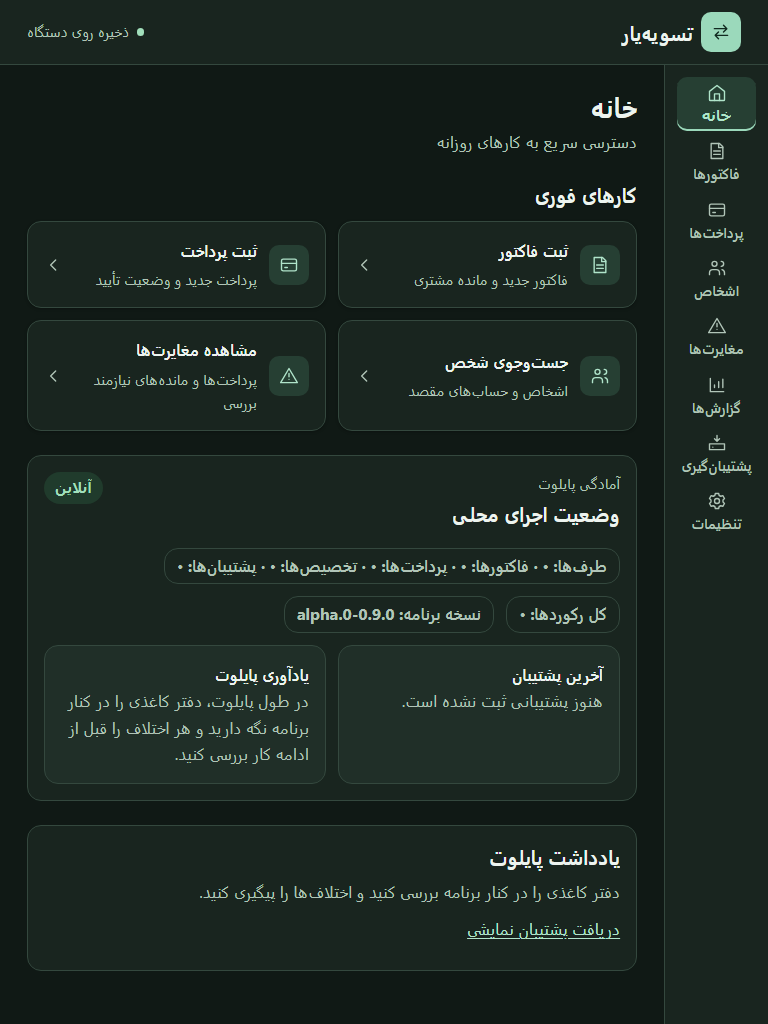
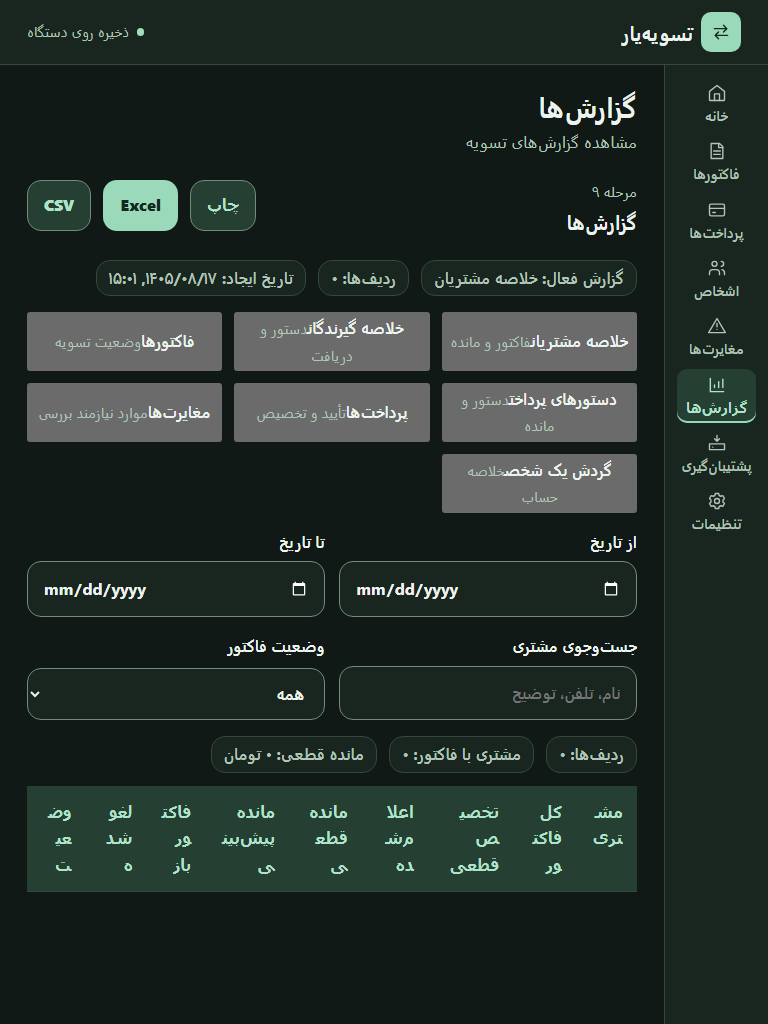
feat: optimize advanced mobile financial UX

diff --git a/src/features/reports/Reports.tsx b/src/features/reports/Reports.tsx
@@ -1,4 +1,5 @@
 import { useCallback, useEffect, useMemo, useRef, useState } from "react";
+import type { ReactNode } from "react";
 import type { DestinationAccount, Invoice, Payment, PaymentAllocation, PaymentInstruction, Party } from "../../domain";
 import { formatInvoiceAmount, formatInvoiceDate } from "../../domain/invoices";
 import { normalizePartyText, partyRoleLabels } from "../../domain/parties";
@@ -80,6 +81,36 @@ type ReportFilters = {
   reconciliationQuery: string;
   statementPartyId: string;
 };
+
+function openReportRecord(section: "parties" | "payments", recordId: string): void {
+  window.dispatchEvent(new CustomEvent("tasviehyar-open-record", { detail: { section, recordId } }));
+}
+
+function MobileReportCard({
+  title,
+  status,
+  emphasis,
+  children,
+  action
+}: {
+  title: string;
+  status?: string;
+  emphasis?: string;
+  children: ReactNode;
+  action?: { label: string; onClick: () => void };
+}) {
+  return (
+    <article className="mobile-report-card">
+      <div className="mobile-report-card-header">
+        <strong>{title}</strong>
+        {status ? <span className="status-pill status-active">{status}</span> : null}
+      </div>
+      {emphasis ? <p className="mobile-report-emphasis">{emphasis}</p> : null}
+      <div className="mobile-report-details">{children}</div>
+      {action ? <button type="button" className="tertiary-button" onClick={action.onClick}>{action.label}</button> : null}
+    </article>
+  );
+}
 
 const defaultFilters: ReportFilters = {
   dateFrom: "",
@@ -1045,6 +1076,22 @@ export function Reports({
             ))}
           </tbody>
         </table>
+        <div className="mobile-report-cards" aria-label="خلاصه مشتریان برای گوشی">
+          {customerSummaryRows.map((row) => (
+            <MobileReportCard
+              key={row.partyId}
+              title={row.customerName}
+              status={settlementLabelText(row.settlementState)}
+              emphasis={`مانده قطعی: ${formatInvoiceAmount(row.confirmedOutstanding)}`}
+              action={{ label: "مشاهده شخص", onClick: () => openReportRecord("parties", row.partyId) }}
+            >
+              <span>کل فاکتورها: {formatInvoiceAmount(row.totalInvoiced)}</span>
+              <span>تخصیص قطعی: {formatInvoiceAmount(row.confirmedAllocated)}</span>
+              <span>مانده پیشبینی: {formatInvoiceAmount(row.provisionalOutstanding)}</span>
+              <span>فاکتور باز: {row.openInvoiceCount.toLocaleString("fa-IR")}</span>
+            </MobileReportCard>
+          ))}
+        </div>
       </div>
     );
   }
@@ -1087,6 +1134,22 @@ export function Reports({
             ))}
           </tbody>
         </table>
+        <div className="mobile-report-cards" aria-label="پرداختها برای گوشی">
+          {paymentRows.map((row) => (
+            <MobileReportCard
+              key={row.paymentId}
+              title={`${row.payerName} ← ${row.recipientName}`}
+              status={row.verificationState}
+              emphasis={formatInvoiceAmount(row.amount)}
+              action={{ label: "مشاهده پرداخت", onClick: () => openReportRecord("payments", row.paymentId) }}
+            >
+              <span>تاریخ: {formatInvoiceDate(row.paymentDate)}</span>
+              <span>روش: {row.method}</span>
+              <span>تخصیص: {formatInvoiceAmount(row.allocatedAmount)}</span>
+              <span>بدون تخصیص: {formatInvoiceAmount(row.unallocatedAmount)}</span>
+            </MobileReportCard>
+          ))}
+        </div>
       </div>
     );
   }
@@ -1131,6 +1194,20 @@ export function Reports({
             ))}
           </tbody>
         </table>
+        <div className="mobile-report-cards" aria-label="مغایرتها برای گوشی">
+          {reconciliationRows.map((row) => (
+            <MobileReportCard
+              key={row.issueId}
+              title={row.mismatchType}
+              status={row.severity === "high" ? "بالا" : row.severity === "medium" ? "متوسط" : "کم"}
+              emphasis={row.explanation}
+            >
+              <span>شخص: {row.person}</span>
+              <span>مرجع: {row.reference}</span>
+              <span>تاریخ: {row.relevantDate ? formatInvoiceDate(row.relevantDate) : "—"}</span>
+            </MobileReportCard>
+          ))}
+        </div>
       </div>
     );
   }

diff --git a/src/App.tsx b/src/App.tsx
@@ -1,14 +1,15 @@
-import { useCallback, useEffect, useLayoutEffect, useRef, useState } from "react";
+import { lazy, Suspense, useCallback, useEffect, useLayoutEffect, useRef, useState } from "react";
 import { InvoiceManagement } from "./features/invoice-management/InvoiceManagement";
-import { BackupRestore } from "./features/backup-restore/BackupRestore";
 import { PilotReadinessPanel } from "./features/pilot-readiness/PilotReadinessPanel";
 import { PaymentManagement } from "./features/payment-management/PaymentManagement";
 import { PartyManagement } from "./features/party-management/PartyManagement";
-import { Reports } from "./features/reports/Reports";
-import { SettlementReview } from "./features/settlement-review/SettlementReview";
 import { destinations, isSection, type Section, sections } from "./shell/destinations";
 import { Icon, SectionLink } from "./shell/navigation";
 import { type Theme, themes, useTheme } from "./shell/theme";
+
+const BackupRestore = lazy(() => import("./features/backup-restore/BackupRestore").then(({ BackupRestore: component }) => ({ default: component })));
+const Reports = lazy(() => import("./features/reports/Reports").then(({ Reports: component }) => ({ default: component })));
+const SettlementReview = lazy(() => import("./features/settlement-review/SettlementReview").then(({ SettlementReview: component }) => ({ default: component })));
 
 const quickActions = [
   { section: "invoices", label: "ثبت فاکتور", description: "فاکتور جدید و مانده مشتری" },
@@ -29,13 +30,15 @@ export function App() {
   const { theme, selectTheme } = useTheme();
   const pageTitle = useRef<HTMLHeadingElement>(null);
   const previousSection = useRef(currentSection);
+  const scrollPositions = useRef<Partial<Record<Section, number>>>({});
 
   const navigate = useCallback((section: Section) => {
     if (readSection() !== section) {
+      scrollPositions.current[currentSection] = window.scrollY;
       window.history.pushState(null, "", `#/${section}`);
     }
     setCurrentSection(section);
-  }, []);
+  }, [currentSection]);
 
   useEffect(() => {
     function syncSection() {
@@ -60,7 +63,7 @@ export function App() {
   useLayoutEffect(() => {
     if (previousSection.current !== currentSection) {
       pageTitle.current?.focus({ preventScroll: true });
-      window.scrollTo(0, 0);
+      window.scrollTo({ top: scrollPositions.current[currentSection] ?? 0, behavior: "auto" });
       previousSection.current = currentSection;
     }
   }, [currentSection]);
@@ -152,9 +155,11 @@ export function App() {
         <div className={`shell-section ${currentSection === "invoices" ? "is-current" : ""}`}><InvoiceManagement onRequestPartyManagement={() => navigate("parties")} /></div>
         <div className={`shell-section ${currentSection === "payments" ? "is-current" : ""}`}><PaymentManagement /></div>
         <div className={`shell-section ${currentSection === "parties" ? "is-current" : ""}`}><PartyManagement /></div>
-        <div className={`shell-section ${currentSection === "reconciliation" ? "is-current" : ""}`}><SettlementReview /></div>
-        <div className={`shell-section ${currentSection === "reports" ? "is-current" : ""}`}><Reports /></div>
-        <div className={`shell-section ${currentSection === "backup" ? "is-current" : ""}`}><BackupRestore /></div>
+        <Suspense fallback={<div className="loading-state" role="status">در حال آمادهسازی بخش…</div>}>
+          {currentSection === "reconciliation" ? <SettlementReview /> : null}
+          {currentSection === "reports" ? <Reports /> : null}
+          {currentSection === "backup" ? <BackupRestore /> : null}
+        </Suspense>
 
         <div className="legacy-entry-compat" aria-label="دسترسیهای سازگار">
           {[

diff --git a/src/styles.css b/src/styles.css
@@ -560,6 +560,18 @@ h3 { font-size: 1.0625rem; }
   gap: var(--space-3);
 }
 
+.form-actions-sticky {
+  scroll-margin-block-end: calc(5rem + env(safe-area-inset-bottom));
+}
+
+.loading-state {
+  padding: var(--space-6);
+  border: 1px solid var(--border);
+  border-radius: var(--radius);
+  color: var(--muted);
+  background: var(--surface);
+}
+
 .primary-button,
 .secondary-button,
 .tertiary-button {
@@ -789,6 +801,41 @@ h3 { font-size: 1.0625rem; }
   color: var(--muted);
 }
 
+.mobile-report-cards {
+  display: none;
+}
+
+.mobile-report-card {
+  display: grid;
+  gap: var(--space-3);
+  padding: var(--space-4);
+  border: 1px solid var(--border);
+  border-radius: var(--radius);
+  background: var(--surface);
+  box-shadow: var(--shadow);
+}
+
+.mobile-report-card-header {
+  display: flex;
+  align-items: flex-start;
+  justify-content: space-between;
+  gap: var(--space-3);
+}
+
+.mobile-report-emphasis {
+  margin: 0;
+  color: var(--brand-deep);
+  font-size: 1.2rem;
+  font-weight: 800;
+}
+
+.mobile-report-details {
+  display: grid;
+  gap: var(--space-1);
+  color: var(--muted);
+  font-size: var(--text-small);
+}
+
 .backup-file-input {
   position: absolute;
   width: 1px;
@@ -847,6 +894,32 @@ h3 { font-size: 1.0625rem; }
 
   .shell-main {
     padding-block-end: calc(6rem + env(safe-area-inset-bottom));
+  }
+
+  .form-actions-sticky {
+    position: sticky;
+    z-index: 3;
+    inset-block-end: calc(0.5rem + env(safe-area-inset-bottom));
+    margin-inline: -0.5rem;
+    padding: 0.5rem;
+    border: 1px solid var(--border);
+    border-radius: var(--radius);
+    background: color-mix(in srgb, var(--surface) 94%, transparent);
+    box-shadow: 0 -0.5rem 1.5rem rgb(24 44 33 / 8%);
+    backdrop-filter: blur(12px);
+  }
+
+  .form-actions-sticky .primary-button {
+    flex: 1 1 100%;
+  }
+
+  .report-table-wrap .report-table {
+    display: none;
+  }
+
+  .report-table-wrap .mobile-report-cards {
+    display: grid;
+    gap: var(--space-3);
   }
 
   .shell-sidebar {

diff --git a/src/App.test.tsx b/src/App.test.tsx
@@ -49,7 +49,7 @@ describe("App shell", () => {
 
     expect(window.location.hash).toBe("#/backup");
     expect(menu.getByRole("heading", { name: "پشتیبانگیری", level: 1 })).toHaveFocus();
-    expect(menu.getByRole("heading", { name: "پشتیبانگیری و بازیابی" })).toBeVisible();
+    expect(await menu.findByRole("heading", { name: "پشتیبانگیری و بازیابی" })).toBeVisible();
     expect(navigation().getByRole("link", { name: "پشتیبانگیری" })).toHaveAttribute("aria-current", "page");
     expect(navigation().getByRole("link", { name: "بیشتر" })).toHaveAttribute("aria-current", "location");
     expect(screen.queryByRole("heading", { name: "کارهای فوری" })).not.toBeInTheDocument();

diff --git a/src/features/reports/Reports.test.tsx b/src/features/reports/Reports.test.tsx
@@ -135,6 +135,8 @@ describe("reports", () => {
     const previewStrip = screen.getByLabelText("پیشنمایش گزارش");
     expect(within(previewStrip).getByText(/ردیفها:/)).toHaveTextContent("۱");
     expect(screen.getAllByText("۱۲۵٬۰۰۰ تومان").length).toBeGreaterThan(0);
+    expect(screen.getByLabelText("خلاصه مشتریان برای گوشی")).toBeInTheDocument();
+    expect(within(screen.getByLabelText("خلاصه مشتریان برای گوشی")).getByRole("button", { name: "مشاهده شخص" })).toBeEnabled();
 
     window.dispatchEvent(new CustomEvent("tasviehyar-open-record", { detail: { section: "reports", recordId: party.id } }));
 

diff --git a/src/features/invoice-management/InvoiceManagement.tsx b/src/features/invoice-management/InvoiceManagement.tsx
@@ -538,7 +538,7 @@ export function InvoiceManagement({
               </div>
             )}
 
-            <div className="form-actions">
+            <div className="form-actions form-actions-sticky">
               <button type="submit" className="primary-button" disabled={!canSave}>
                 {selectedInvoice ? "ذخیره تغییرات" : "ثبت فاکتور"}
               </button>

diff --git a/src/features/payment-management/PaymentManagement.tsx b/src/features/payment-management/PaymentManagement.tsx
@@ -903,7 +903,7 @@ export function PaymentManagement({
               </div>
             )}
 
-            <div className="form-actions">
+            <div className="form-actions form-actions-sticky">
               <button
                 type="submit"
                 className="primary-button"

diff --git a/docs/design-system.md b/docs/design-system.md
@@ -16,3 +16,10 @@
 ## ظاهر برنامه
 
 «تنظیمات» سه گزینهٔ روشن، تیره و مطابق دستگاه دارد. انتخاب کاربر در کلید `tasviehyar-theme` در `localStorage` ذخیره میشود. گزینهٔ پیشفرض مطابق دستگاه است و در زمان اجرا به تغییر ظاهر دستگاه واکنش نشان میدهد. نسخهٔ چاپی از رنگهای روشن استفاده میکند.
+
+## فاز ۳
+
+- فرمهای اصلی فاکتور و پرداخت در گوشی نوار اقدام چسبان دارند و با safe-area پایین صفحه هماهنگ میشوند. هنگام ذخیره، دکمهٔ اصلی با وضعیت `saving` غیرفعال میماند تا ارسال تکراری رخ ندهد.
+- گزارش خلاصهٔ مشتری، پرداخت و مغایرت در عرض گوشی کارتهای مالی خوانا دارند. جدول کامل برای تبلت و دسکتاپ باقی میماند و اقدام مشاهدهٔ رکورد از کارت حفظ شده است.
+- مسیرهای کممصرف گزارش، مغایرت و پشتیبانگیری با بارگذاری تنبل جدا شدهاند. bundle اولیهٔ JavaScript از ۱٬۵۸۸KB به ۵۸۰KB رسیده است و chunk گزارش جداگانه بارگذاری میشود.
+- موقعیت پیمایش هر بخش در پوسته نگه داشته میشود و هنگام برگشت به همان بخش بازیابی میگردد. آزمون دستگاه فیزیکی انجام نشده است.
